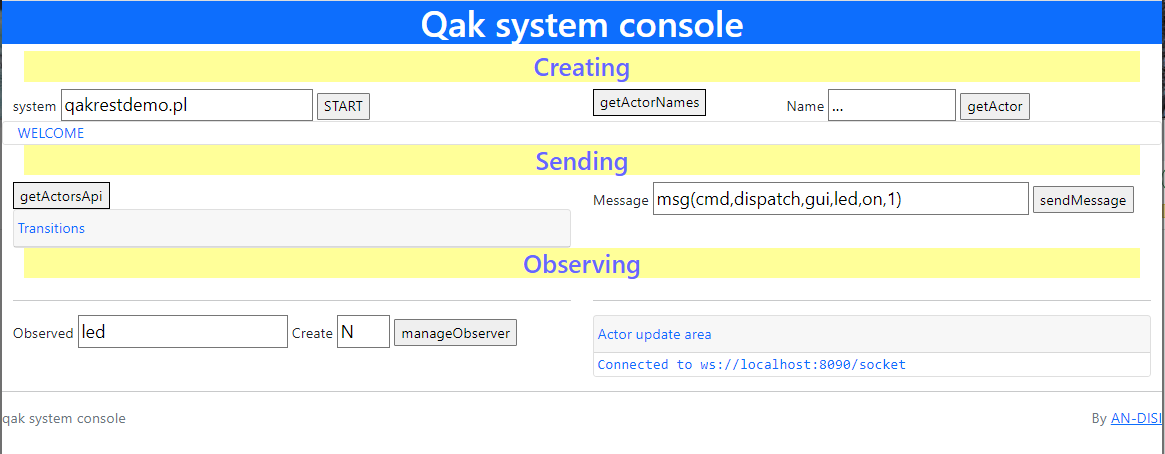
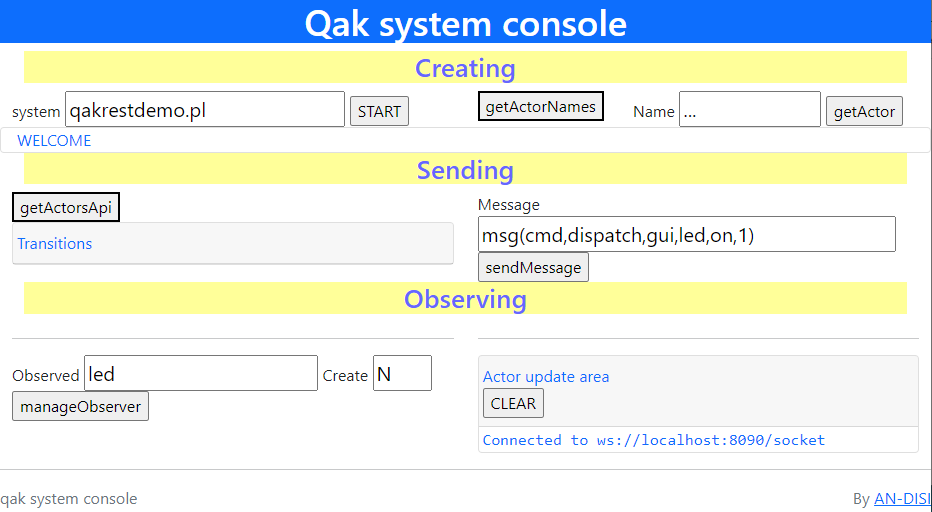
Qakrest intro

diff --git a/it.unibo.issLabStart/userDocs/iss22Working/source/QakRest.rst b/it.unibo.issLabStart/userDocs/iss22Working/source/QakRest.rst
@@ -8,10 +8,51 @@
 QakRest
 =============================
 
-Obiettivo: costruire una facade REST per un sistema Qak.
+:blue:`Obiettivo`: costruire una facade REST per un sistema Qak.
 
-#. Usiamo SprinBoot per costruire una Facade di acesso ad un sistems Qak utilizzabile da utenti umani e 
-   da  programmi.
+Un sistema Qak costituisce una applicazione distribuita basata su componenti detti *attori* 
+attivabili su uno o più nodi computazionali,
+che interagisocno a scambio di messaggi (sono privi di  memoria comune)
+supportati da una apposita infrastruttura a run time. 
+
+La parte di codice necessaria all'uso del Qak-runtime viene generata in modo automatico
+a partire da un modello che descrive ad alto livello gli aspetti della architettura applicativa,
+in temini di struttura, interazione e comportamento logico degli attori.
+
+La generazione automatica permette agli application designer di concentrare l'attenzione 
+sulla logica applicativa, senza doversi occupare dei dettagli legati alla realizzazione
+delle comunicazioni via rete.
+
+Un sistema Qak possiede molte caratteristiche tipiche dei microservizi, focalizzando l'attenzione
+sull'autonomia dei componenti (gli attori) e sulla interazione a scambio di messaggi,
+partendo dalle otto assunzioni di Peter Deutsh:
+
+- La rete è affidabile
+- La latenza è nulla
+- L'ampiezza di banda è infinita
+- La rete è sicura
+- La toplogia non cambia
+- Esiste un amministratore del sistema
+- Il costo del trasporto è nullo
+- La rete è omogenea
+
+Lo scopo è quello di abituarsi all'uso di un nuovo modello computazionale, anche nel caso 
+in cui il sistema sia allocato su unica JVM, caso in cui molte delle assunzioni precedenti
+possono essere considerate vere.
+
+Aspetti critici che sorgono quando qualcuna delle assunzioni precedenti viene meno
+e necessita quali scalabilità, resilienza, etc. sono ricondotte all'uso di infrastrutture
+più evolute e meglio supportate, come SpringBoot.
+
+.. circuit breaker, control loop, monitoring
+
+Il nostro intento è utilizzare  SprinBoot per costruire una Facade di acesso al sistems Qak,
+utilizzabile da utenti umani e da  programmi.
+
+------------------------------------------
+QakRest cosa fa
+------------------------------------------
+
 #. Le funzionalità della Facade sono:
 
    - attivare la applicazione Qak 
@@ -20,7 +61,7 @@ Obiettivo: costruire una facade REST per un sistema Qak.
    - creare/elimnare observer sugli attori (in relazione alle informazioni emesse via Coap)
    - inviare messaggi ad attori
 
-   Un esempio di uso è fornito nel video ...
+   Per un esempio di uso si veda :ref:`QakRest esempio di uso`.
 
 ++++++++++++++++++++++++++++++
 QakFacadeApi
@@ -60,7 +101,7 @@ Le funzionalità che costituiscono la 'core application' della Facade e sono rea
             return actors;
         }
 
-        
+
     }
 
 ++++++++++++++++++++++++++++++
@@ -87,6 +128,41 @@ I pulsanti presenti nelle :blue:`sezioni di input` della pagina inviano richiest
 - HTTP-GET ( *getActorNames, getActorsApi, getActor* ) 
 - HTTP-POST ( *START* )
 - HTTP-PUT ( *sendMessage* )
+
+
+++++++++++++++++++++++++++++++
+QakRest esempio di uso
+++++++++++++++++++++++++++++++
+
+#. Attivare *unibo.QakRest.QakRestApplication*
+#. Attivare l'applicazione Qak premendo il pulsante START
+#. Attivare un observer per il led premendo il pulsante *manageObserver* con CREATE=Y
+#. Premere il pulsante sendMessage e osservare *Actor update area*
+#. Attivare un programma (Java, Python, etc.) che invia un messaggio la led via TCP e
+   osservare la modifica in *Actor update area*. Ad esempio:
+   
+   .. code:: java
+
+    public class CallerQakSystem {
+    final protected String HOST = "localhost";
+    final protected int port    =  8160;
+    private Interaction2021 conn;
+
+        public void connect() throws Exception {
+            conn = TcpClientSupport.connect(HOST, port ,10 );
+        }
+        public void sendMessageToLed() throws Exception {
+            //invio senza passare per la REST Facade
+            String msg = "msg(cmd,dispatch,callertcp,led,on,300)";
+            conn.forward( msg   );
+        }
+
+        public static void main(String[] args) throws Exception {
+            CallerQakSystem appl = new CallerQakSystem();
+            appl.connect();
+            appl.sendMessageToLed();
+        }
+    }
 
 ++++++++++++++++++++++++++++++
 QakRest HIController
@@ -166,6 +242,21 @@ Ad esempio:
         <div id="INFO" th:text="${info}" th:remove="tag">Tobereplaced</div>
     </div>
   </div>
+
+La pagina include anche :blue:`form` relative alle sezioni di input. Ad esempio:
+
+.. code:: html
+
+    <form action="sendMessage" method="post">
+     <label for="sendMessagespec">Message</label>
+     <input type="text" size=40 id="sendMessagespec" name="name" fon
+            value="msg(cmd,dispatch,gui,led,on,1)">
+        <!-- value="msg(MSGID,MSGTYPE,SENDER,DEST,CONTENT,N)"> -->
+     <input type="submit" value="sendMessage">
+    </form>    
+
+Si ricorda che lo standard HTML prevede che le form utilizzino il meotodo POST.
+L'uso del metodo PUT viene trasformato in GET.
 
 %%%%%%%%%%%%%%%%%%%%%%%%%%%%%%%%%%
 updateViewmodel
@@ -248,7 +339,6 @@ alle funzionalità di :ref:`QakSystemFacade`.
    .. code:: java
 
     public interface QakM2MServiceSynch {
- 
         @GetMapping(value="/qak/getActorNames", produces ="application/json")
         List<String> getActorNames( );
         @GetMapping(value="/qak/getActorsApi", produces ="application/json")
@@ -257,9 +347,15 @@ alle funzionalità di :ref:`QakSystemFacade`.
         public String getActor(@RequestParam String name);
         @PostMapping(value="/qak/startTheQakSystem", produces ="application/json")
         String startTheQakSystem(@RequestBody String sysDescr );
-        @PutMapping(value="/qak/sendMessage", produces ="application/json")
+        @PostMapping(value="/qak/sendMessage", produces ="application/json")
         void sendMessage(@RequestBody String msg );
     }
+
+Questi metodi vegono invocati dalle :blue:`form` della pagina :ref:`qakSystemGui.html`
+
+
+
+
 
 Esempi di uso con curl:
 
@@ -284,9 +380,33 @@ Esempi di uso con curl:
          -H "Content-Type: application/json"
          -X PUT http://localhost:8090/qak/manageObserver
 
+
+    curl -v telnet://127.0.0.1:8016
+    curl -v tcp://localhost:8016
+    curl -v telnet://www.unix.tutorial.org:443
+
 L'invio di un messaggio al *led* dopo avere creato un observer, provoca un aggiornamento della
 *Actor update area* sulla :ref:`QakRest GUI` da parte di :ref:`QakSystemFacade`.
          
+--------------------------------------------------
+QakRest Interazioni asincrone
+--------------------------------------------------
+
+- :blue:`Problematica`: le interazioni basate su RESTful JSON APi cia HTTP sono sincrone. 
+  Quindi un programma chiamante rimane bloccato in attesa della risposta.
+- :blue:`Analisi`: l'uso di chiamate bloccanti può causare inconvenienti cha vanno da possibili lunghi tempi di risposta
+  (che tengono impegnato il chiamante) a possibili chrash del server. 
+  Occorre consentire meccanismi di chiamata non-bloccante.
+- :blue:`Soluzioni`: 
+  
+   #. :brown:`non-blocking synchronous API`: usare un framework reattivo basato su non-blocking I/O, 
+      in cui l'attesa della risposta non implica l'allocazione di un thread.
+   #. :brown:`massage-based systems`:<z> usare un modello di programmazione asincrono, basato su invio di messaggi 
+
++++++++++++++++++++++++++++++
+QakRest todo
++++++++++++++++++++++++++++++
+
 %%%%%%%%%%%%%%%%%%%%%%%%%%%%%%%%%%
 L'interfaccia QakM2MServiceAsynch
 %%%%%%%%%%%%%%%%%%%%%%%%%%%%%%%%%%
